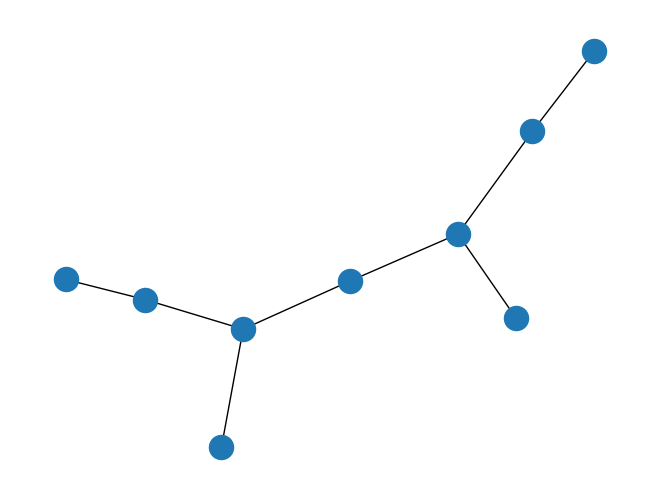
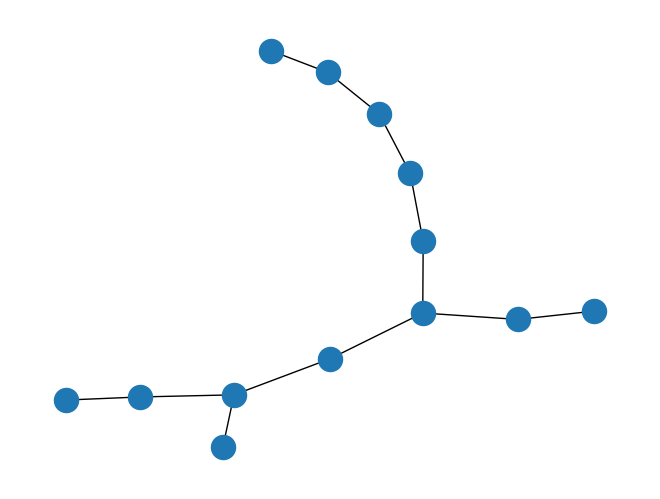
update tutorial (#4)
* chore: add issue temp (bug report)

* docs: fix typo & grammar

* docs: new example

diff --git a/docs/source/tutorial.rst b/docs/source/tutorial.rst
@@ -23,8 +23,8 @@ If you have not installed `graphix` yet, you can install it using `pip` as well:
 Generating MBQC Pattern
 -----------------------
 
-We first generate a MBQC pattern using ``graphix`` library.
-First, let us import relevant modules and define function we will use:
+We first generate an MBQC pattern using ``graphix`` library.
+First, let us import relevant modules and define the function we will use:
 
 .. code-block:: python
 
@@ -40,12 +40,13 @@ First, let us import relevant modules and define function we will use:
         circuit.h(2)
         circuit.cnot(0, 1)
         circuit.cnot(0, 2)
+        circuit.ry(1, np.pi/3)
 
 Then we define a circuit:
 
 .. code-block:: python
 
-    # generate the GHZ state generation pattern
+    # generate a slightly modified GHZ state generation pattern
     circuit = Circuit(3)
     simple_circ(circuit)
     pattern = circuit.transpile()
@@ -62,7 +63,34 @@ Then we define a circuit:
 
 .. figure:: ./_static/img/ghz_pattern.png
     :scale: 85 %
-    :alt: 2-qubit pattern visualization
+    :alt: 3-qubit pattern visualization
+
+This circuit should generate the following state:
+
+.. math::
+
+    \frac{\sqrt{6}}{4} |000\rangle+\frac{\sqrt{2}}{4} |010\rangle- \frac{\sqrt{2}}{4} |101\rangle+\frac{\sqrt{6}}{4} |111\rangle
+
+Next, we update the pattern with Pauli measurements:
+
+.. code-block:: python
+
+    pattern.standardize()
+    pattern.shift_signals()
+    pattern.perform_pauli_measurements()
+
+    # plot the pattern
+    nodes, edges = pattern.get_graph()
+    g = nx.Graph()
+    g.add_nodes_from(nodes)
+    g.add_edges_from(edges)
+    np.random.seed(100)
+    nx.draw(g)
+    plt.show()
+
+.. figure:: ./_static/img/ghz_pattern_updated.png
+    :scale: 85 %
+    :alt: 3-qubit updated pattern visualization
 
 Pattern-to-circuit conversion
 -----------------------------
@@ -79,12 +107,12 @@ Now let us convert the pattern into a circuit using the `graphix-perceval` libra
 
 .. figure:: ./_static/img/ghz_circuit.svg
     :scale: 85 %
-    :alt: 2-qubit pattern visualization
+    :alt: 3-qubit pattern visualization
 
 Running pattern on Perceval simulator
 -------------------------------------
 
-By running the Perceval's computing backends, We can obtain the probability distribution of the measurement outcomes
+By running Perceval's computing backends, we can obtain the probability distribution of the measurement outcomes
 
 .. code-block:: python
 
@@ -99,8 +127,10 @@ By running the Perceval's computing backends, We can obtain the probability dist
     <tr><th>state  </th><th style="text-align: right;">  probability</th></tr>
     </thead>
     <tbody>
-    <tr><td>|000&gt;  </td><td style="text-align: right;">          0.5</td></tr>
-    <tr><td>|111&gt;  </td><td style="text-align: right;">          0.5</td></tr>
+    <tr><td>|000&gt;  </td><td style="text-align: right;">        0.375</td></tr>
+    <tr><td>|011&gt;  </td><td style="text-align: right;">        0.125</td></tr>
+    <tr><td>|100&gt;  </td><td style="text-align: right;">        0.125</td></tr>
+    <tr><td>|111&gt;  </td><td style="text-align: right;">        0.375</td></tr>
     </tbody>
     </table>
     <br>
@@ -120,13 +150,16 @@ or sampling distribution with a given number of samples:
     <tr><th>state  </th><th style="text-align: right;">  counts</th></tr>
     </thead>
     <tbody>
-    <tr><td>|000&gt;  </td><td style="text-align: right;">     499</td></tr>
-    <tr><td>|111&gt;  </td><td style="text-align: right;">     501</td></tr>
+    <tr><td>|000&gt;  </td><td style="text-align: right;">     354</td></tr>
+    <tr><td>|011&gt;  </td><td style="text-align: right;">     127</td></tr>
+    <tr><td>|100&gt;  </td><td style="text-align: right;">     128</td></tr>
+    <tr><td>|111&gt;  </td><td style="text-align: right;">     391</td></tr>
     </tbody>
     </table>
     <br>
 
 .. note::
     Note that the current implementation only supports ``SLOS`` and ``Naive`` as local Perceval processors.
+    ``SLOS`` has a better time complexity, while ``Naive`` has a better space complexity.
     See `Perceval documentation <https://perceval.quandela.net/docs/backends.html>`_ for more details.
 

diff --git a/.github/ISSUE_TEMPLATE/bug_report.md b/.github/ISSUE_TEMPLATE/bug_report.md
@@ -1,0 +1,25 @@
+---
+name: Bug report
+about: Report a bug
+title: "[Bug]: "
+labels: bug
+assignees: ''
+
+---
+
+**Describe the bug**
+A clear and concise description of what the bug is.
+
+**To Reproduce**
+Steps to reproduce the behavior:
+
+**Expected behavior**
+A clear and concise description of what you expected to happen.
+
+**Environment (please complete the following information):**
+ - OS: [e.g. Windows10, macOS Monteley]
+ - Python version: [e.g. 3.8.1]
+ - Related module versions if applicable: [e.g. numpy=1.23.5]
+
+**Additional context**
+Add any other context about the problem here.
